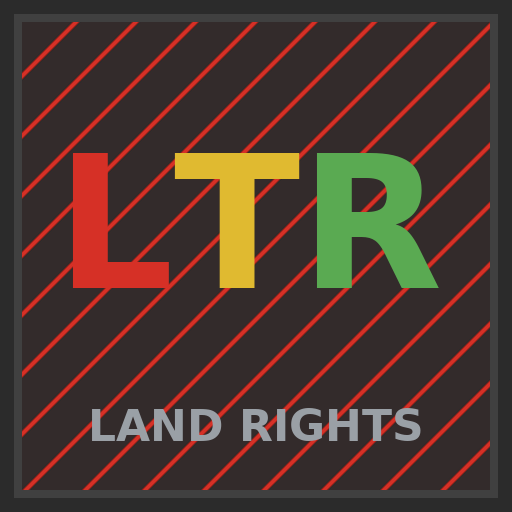
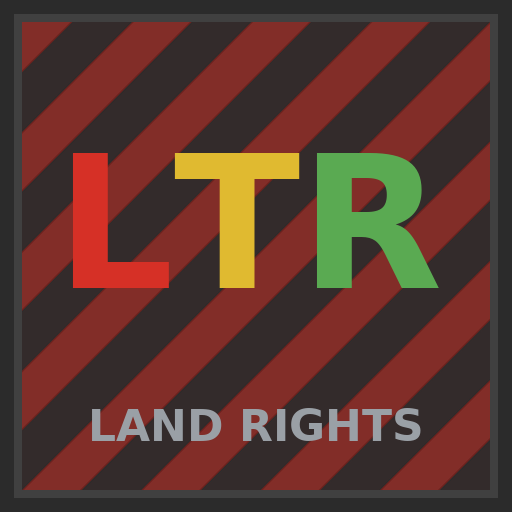
thumbnail: regenerate against the widened wilderness stripes
The card underlays graphics/wilderness-overlay.png directly rather than
redrawing the pattern, so 0.1.10's wider, more transparent stripes only
needed a regenerate. Roughly five broad diagonals now instead of nine thin
ones, softer red over the charcoal (inner mean luminance 62.0 -> 68.3 as
coverage doubled, contrast 31.5 -> 28.5 sd as the alphas came down), and
the LTR mark stays clear of them.

The wider pattern happens to suit a 512 px card for the same reason it
suits map view: the portal shows this scaled down, and thin diagonals were
the first thing to go.

diff --git a/tools/gen_thumbnail.py b/tools/gen_thumbnail.py
@@ -42,8 +42,10 @@ LETTER_SIZE = 185
 SUBTITLE_SIZE = 44
 
 # The wilderness overlay as a background underlay: the card wears the
-# texture the map wears, at the artwork's own strength (no extra
-# transparency — playtest call).
+# texture the map wears, at the artwork's own strength — the card adds no
+# transparency of its own (playtest call), so retuning the stripes retunes
+# the card. It reads the PNG rather than redrawing the pattern, which is
+# why 0.1.10's wider, more see-through stripes arrived here for free.
 
 
 def load_state_colors():
